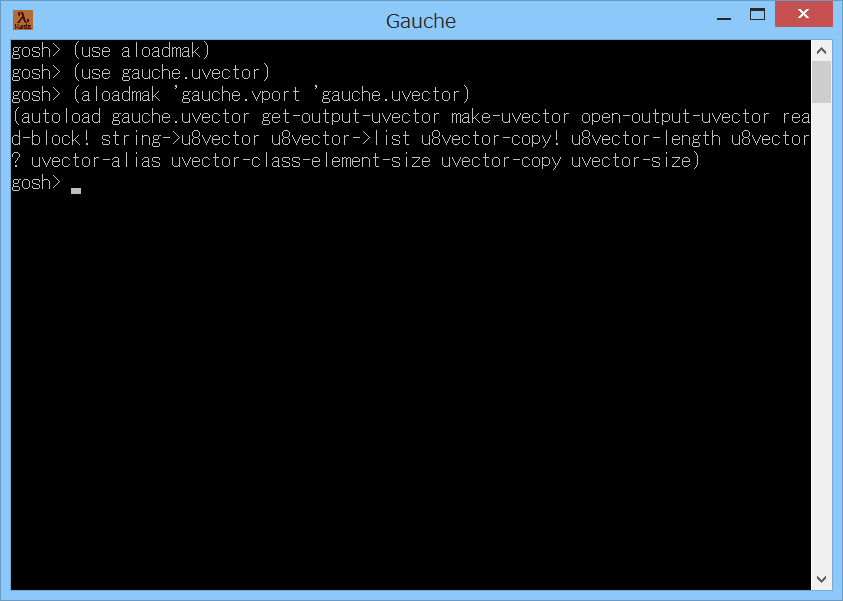
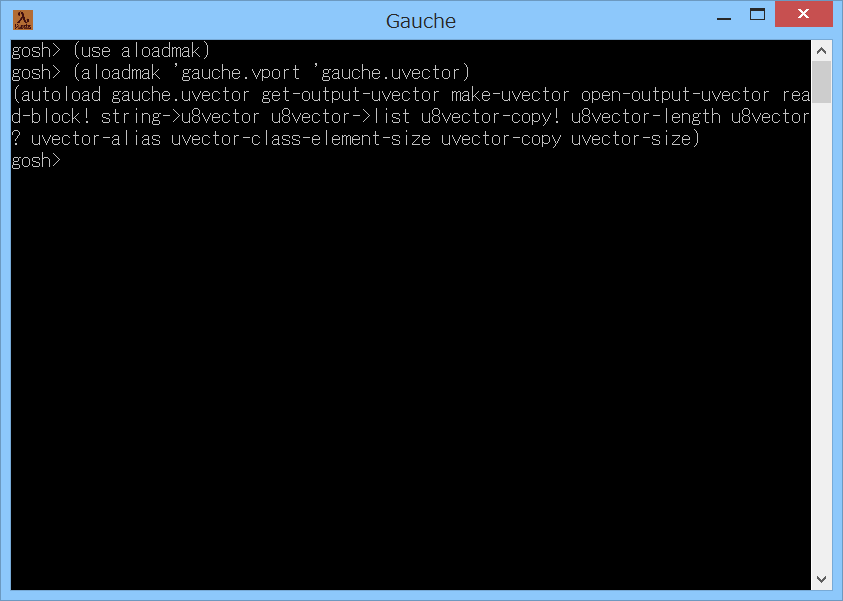
src chg v1.11

Changed region(s): [[0.0, 0.1198, 0.9561, 0.2696], [0.0308, 0.2696, 0.0925, 0.3295]]

diff --git a/README.md b/README.md
@@ -17,12 +17,12 @@
   autoload に変更したい場合には、以下のように実行します。  
   ```
   (use aloadmak)
-  (use gauche.uvector)
   (aloadmak 'gauche.vport 'gauche.uvector)
   ```
-  実行結果として autoload のコードが表示されるので、  
-  それを use のコードと差し替えれば、autoload に変更できます。  
-  (ただし、注意事項 1. の内容に注意してください)
+  すると、実行結果として autoload のコードが表示されます。  
+  そして、それを gauche.vport 内の use のコードと差し替えれば、  
+  use を autoload に変更できます。  
+  (ただし、後述の注意事項 1. の内容に注意してください)
 
 - aloadmak 手続きの書式は以下の通りです。  
   `aloadmak module-or-file use-module`
@@ -31,7 +31,6 @@
 
   - 第2引数の use-module には、対象の内部で使用するモジュールを表す  
     シンボルを指定します。  
-    (指定するモジュールは、事前に use 等でロードされている必要があります)
 
   - 戻り値は、生成した autoload のコードになります。
 
@@ -41,8 +40,9 @@
    別途、動作確認を実施ください。  
    (例えば、ローカル変数に同名のシンボルが使われていた場合でも、  
    autoload の対象と判定してしまいます)  
+   (逆に、シンボルを動的に生成していた場合には、判定もれが発生します)  
    (また、上記使用例の gauche.vport の場合も、  
-   get-output-uvector と open-output-uvector が循環参照のようになっており、  
+   get-output-uvector と open-output-uvector が実際には循環参照のようになっており、  
    生成したコードから手作業で除去する必要がありました)
 
 2. むやみに use を autoload に変更すると、プログラムの保守性が悪くなります。  
@@ -64,6 +64,7 @@
 - 2017-9-26  v1.02 出力ミス修正
 - 2017-9-26  v1.03 対象にスクリプトファイル名を指定可能とした
 - 2017-9-26  v1.10 全体見直し(作り直し)
+- 2017-9-26  v1.11 aloadmak の第2引数を自動的に use するようにした
 
 
 (2017-9-26)
